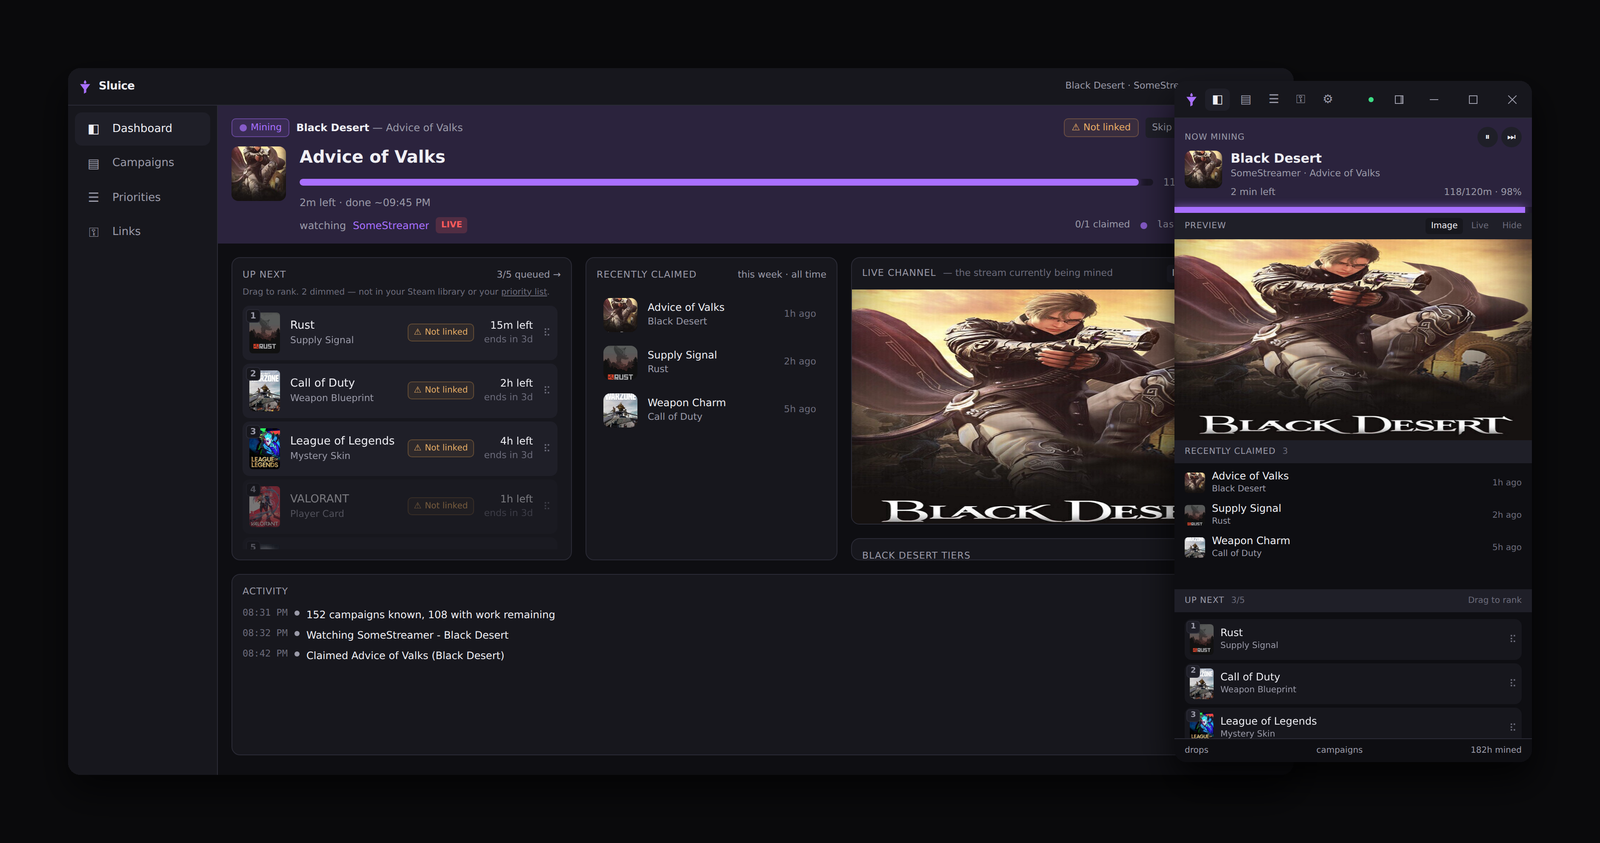
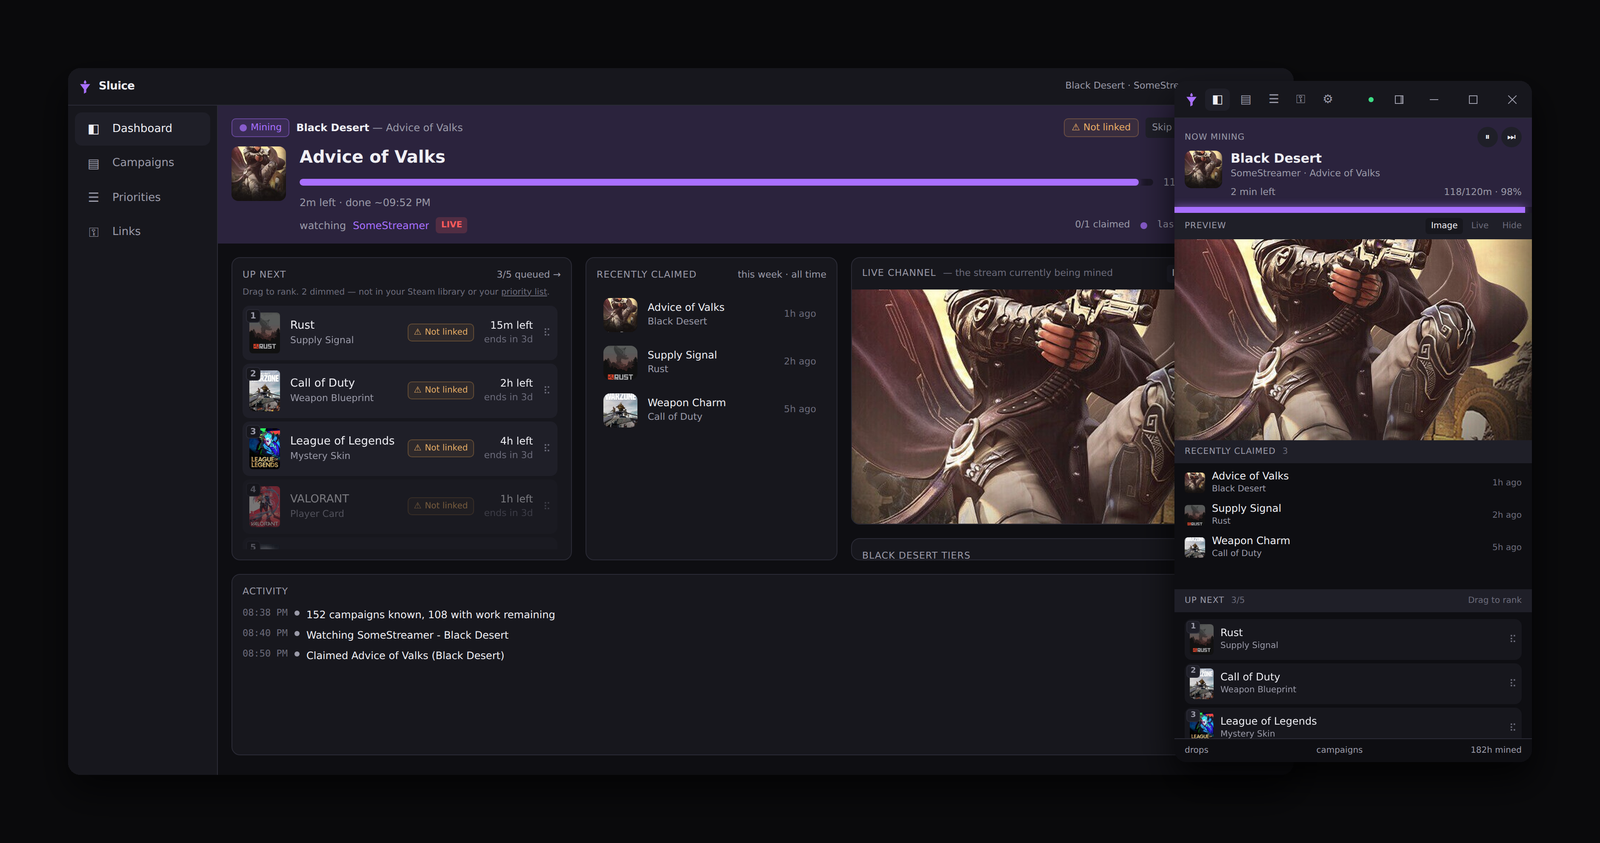
Take the comparison out of the opening, and stop stretching the preview
The stream thumbnail in the screenshot was box art asked for at a widescreen size, which
Twitch answers by stretching a portrait image. It is cropped now, so the game art keeps its
proportions.

Claude-Session: https://claude.ai/code/session_01LRWYT5vxTMEa3Lt3pJDG9g

Changed region(s): [[0.5312, 0.2776, 0.9688, 0.6477]]

diff --git a/README.md b/README.md
@@ -3,13 +3,6 @@
 A browserless Twitch drop miner. No Chrome, no Puppeteer, no video download — it talks to
 Twitch's GraphQL API directly and reports watch time the same way the web player does.
 
-Written after studying [TychoTheTaco/Twitch-Drops-Bot][tycho] (the Puppeteer bot, dead since
-2023) and [DevilXD/TwitchDropsMiner][devilxd] (Python, actively maintained). See
-[ANALYSIS.md](ANALYSIS.md) for what each got right and why the browser-based one broke.
-
-[tycho]: https://github.com/TychoTheTaco/Twitch-Drops-Bot
-[devilxd]: https://github.com/DevilXD/TwitchDropsMiner
-
 ![Sluice](docs/sluice.png)
 
 Two layouts from one build: a full dashboard, and a slim panel you can leave down the side
